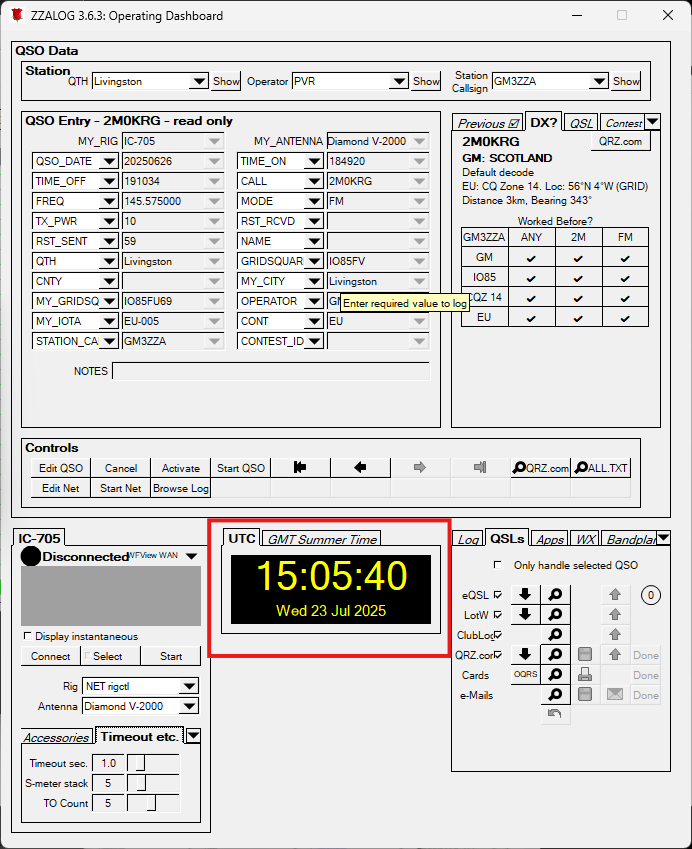
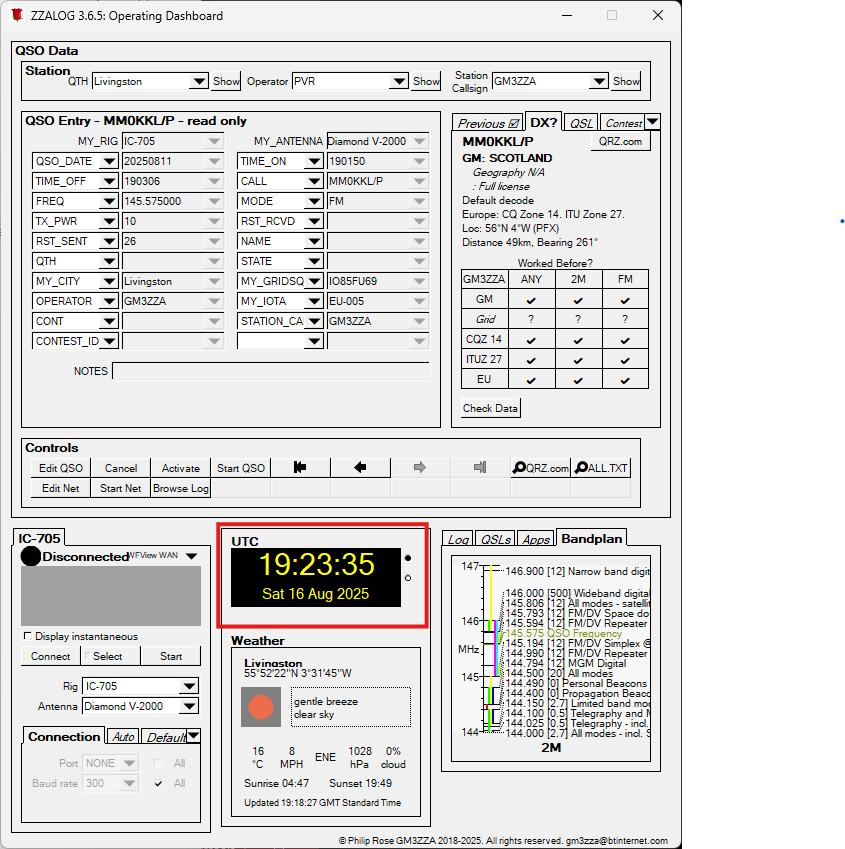
ZZALOG: Tidying up appearnace of ne Time and Weather pane. Modifying userguide accordingly.

diff --git a/zzalog/src/qso_clocks.cpp b/zzalog/src/qso_clocks.cpp
@@ -84,6 +84,13 @@ void qso_clocks::create_form() {
 	int cx = x() + GAP;
 	int cy = y() + HTEXT;
 
+	utc_clock_ = new qso_clock(cx, cy, 50, 50, false);
+	utc_clock_->align(FL_ALIGN_TOP | FL_ALIGN_LEFT);
+	local_clock_ = new qso_clock(cx, cy, 50, 50, true);
+	local_clock_->align(FL_ALIGN_TOP | FL_ALIGN_LEFT);
+
+	cx += utc_clock_->w();
+
 	Fl_Group* g1 = new Fl_Group(cx, cy, HBUTTON, HBUTTON * 2);
 	Fl_Radio_Round_Button* r1 = new Fl_Radio_Round_Button(cx, cy, HBUTTON, HBUTTON);
 	r1->value(!local_);
@@ -98,17 +105,9 @@ void qso_clocks::create_form() {
 
 	g1->end();
 
-	cx += HBUTTON;
-	cy = y() + HTEXT;
 
-
-	utc_clock_ = new qso_clock(cx, cy, 50, 50, false);
-	utc_clock_->align(FL_ALIGN_TOP | FL_ALIGN_LEFT);
-	local_clock_ = new qso_clock(cx, cy, 50, 50, true);
-	local_clock_->align(FL_ALIGN_TOP | FL_ALIGN_LEFT);
-
-	int max_w = utc_clock_->x() + utc_clock_->w() - x();
-	int max_h = utc_clock_->y() + utc_clock_->h() - y();
+	int max_w = g1->x() + g1->w() - x();
+	int max_h = g1->y() + g1->h() - y();
 
 	cy += utc_clock_->h() + HTEXT;
 	cx = x() + GAP;

diff --git a/zzalog/src/qso_wx.cpp b/zzalog/src/qso_wx.cpp
@@ -301,7 +301,7 @@ void qso_wx::enable_widgets() {
 		}
 		case DEGREES: {
 			if (wind_degree == -1) strcpy(label, "---"); 
-			else snprintf(label, sizeof(label), "%03d\302\260", wind_degree);
+			else snprintf(label, sizeof(label), "%3d\302\260", wind_degree);
 			bn_direction_->copy_label(label);
 			break;
 		}
